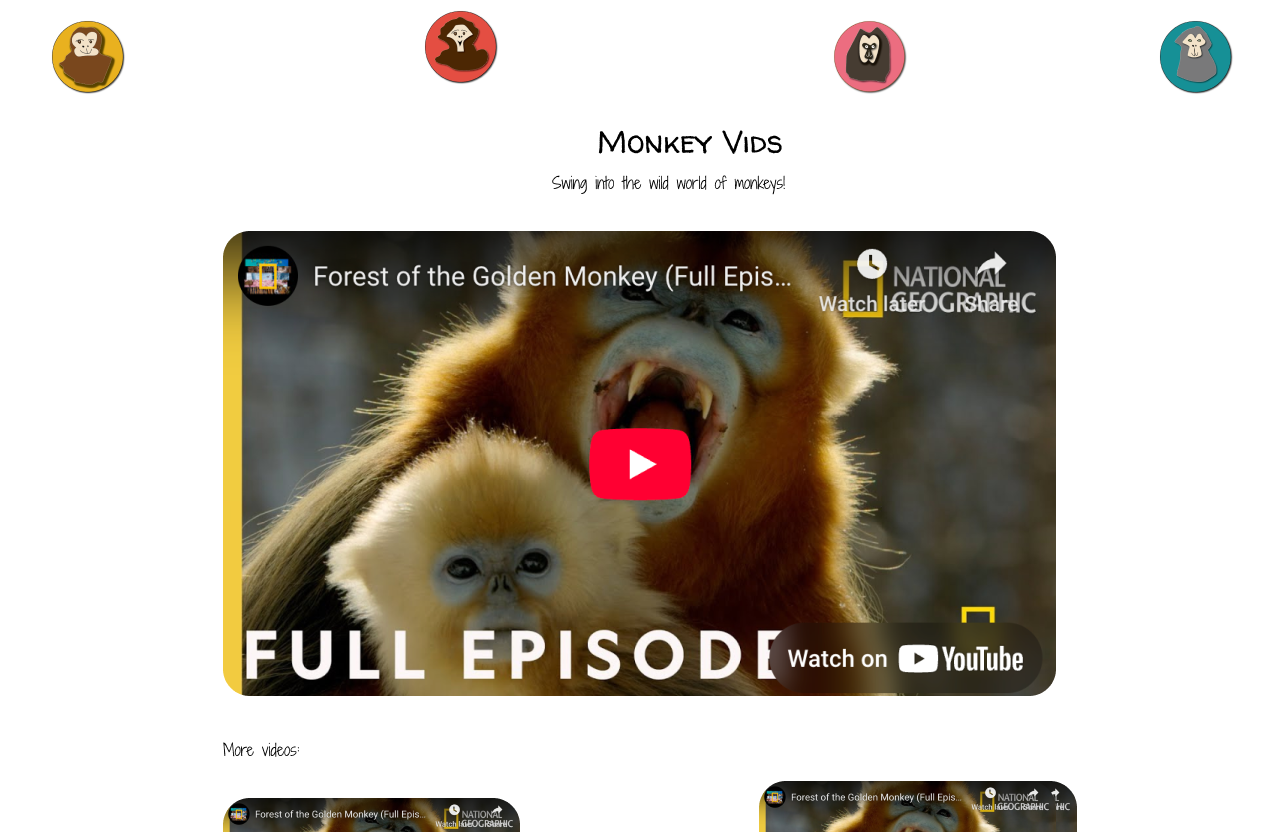
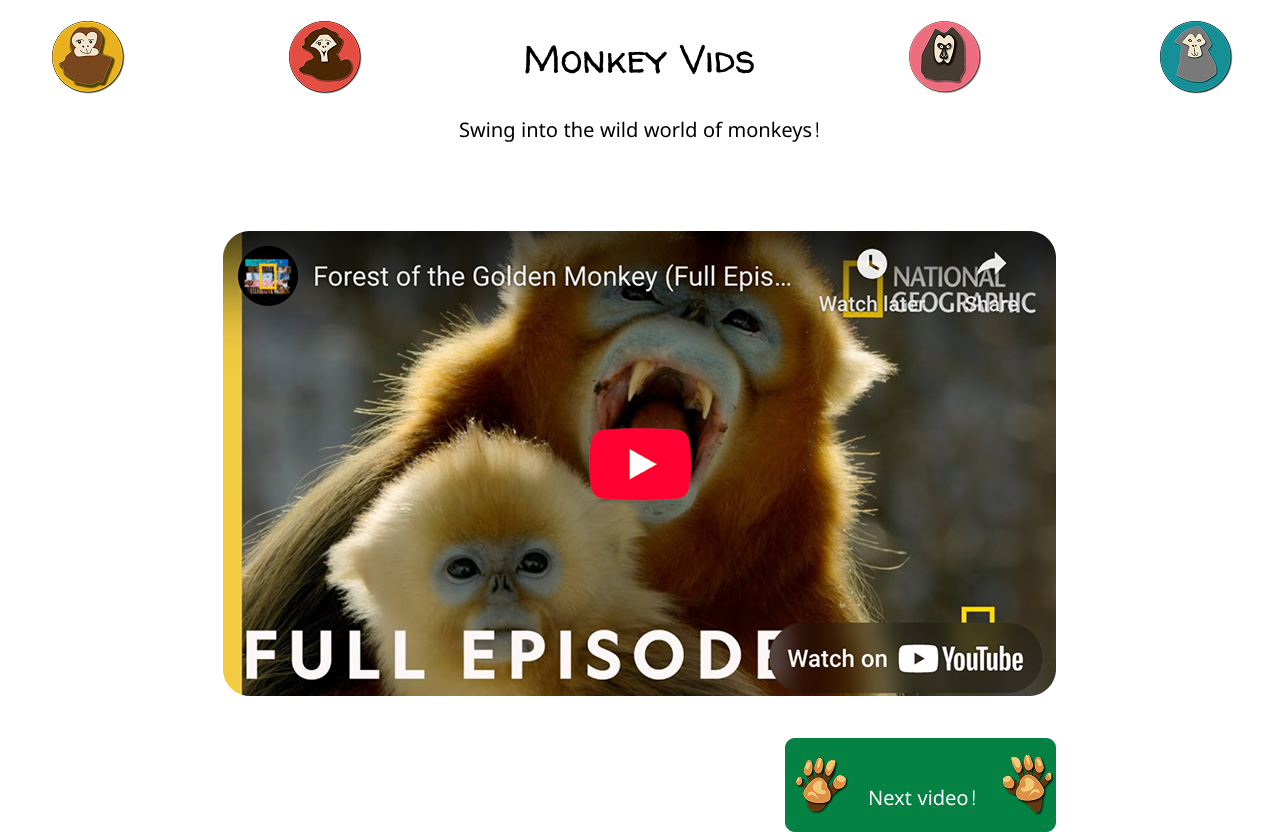
Update wireframes

diff --git a/README.md b/README.md
@@ -39,11 +39,15 @@ For this application, I drew all the icons (the monkey portraits, monkey paws, e
 
 <img src="assets/mobile.png" height=250 alt="Mobile wireframe">
 
-<img src="assets/mobile-animation.png" height=250 alt="Mobile wireframe">
+<img src="assets/mobile-animation.png" height=250 alt="Mobile wireframe with falling banana animation">
+
+<img src="assets/tablet.png" height=250 alt="Tablet wireframe">
+
+<img src="assets/tablet-animation.png" height=250 alt="Tablet wireframe with falling banana animation">
 
 <img src="assets/desktop.png" height=250 alt="Desktop wireframe">
 
-<img src="assets/desktop-animation.jpg" height=250 alt="Desketop wireframe">
+<img src="assets/desktop-animation.jpg" height=250 alt="Desketop wireframe with falling banana animation">
 
 ## Features
 
